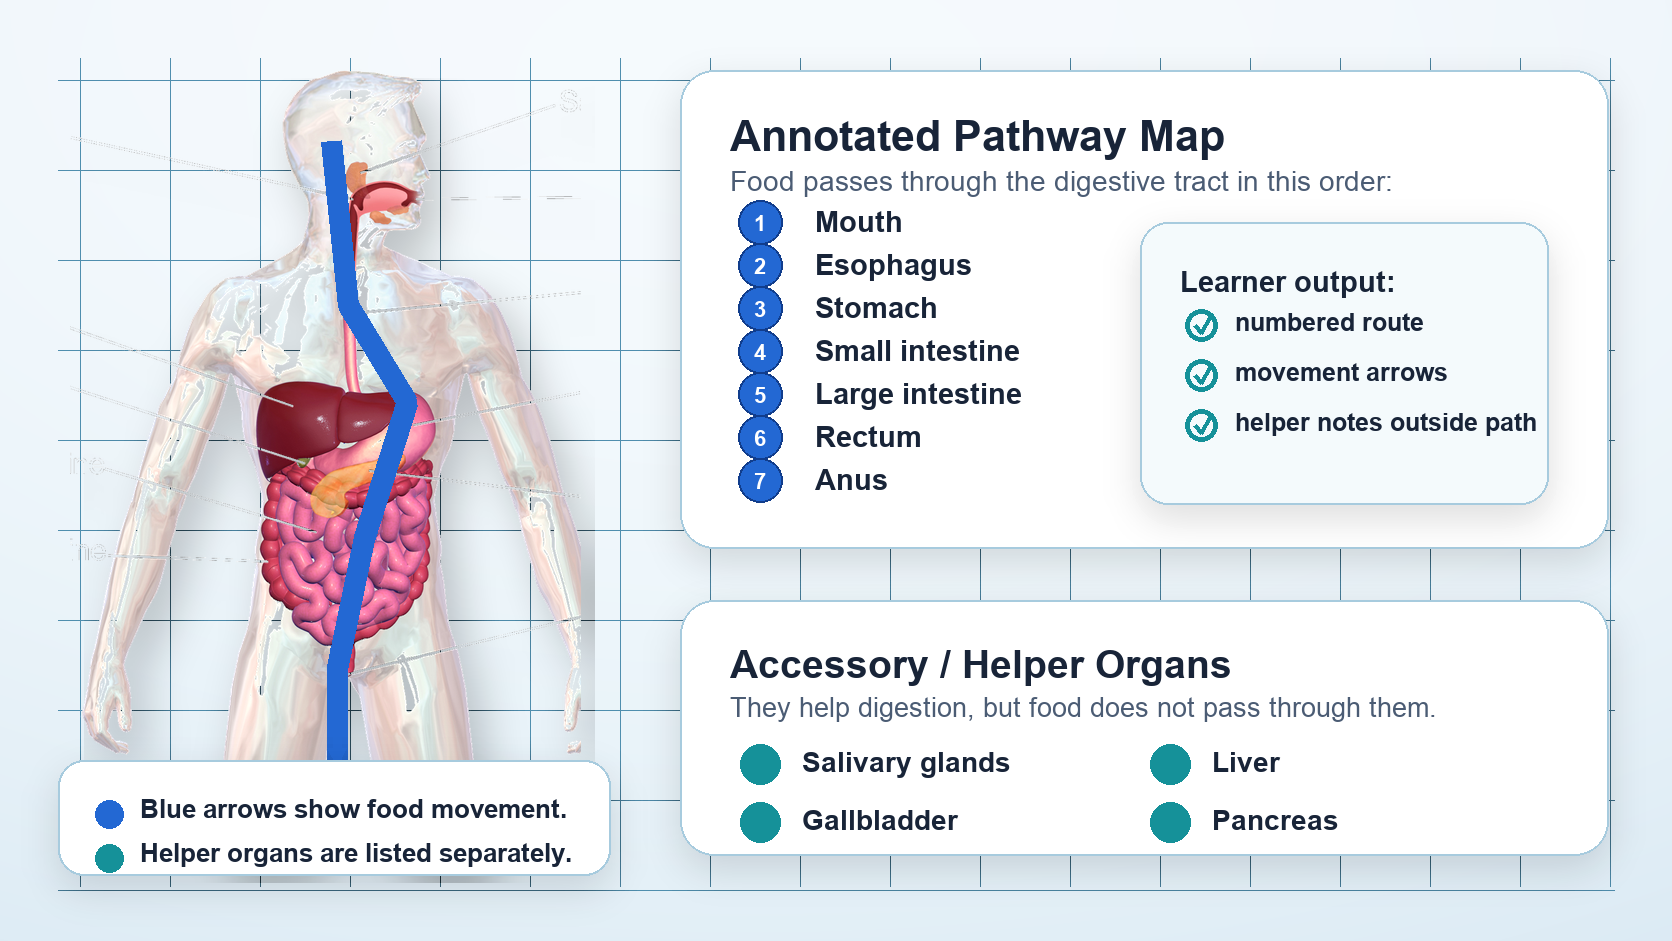
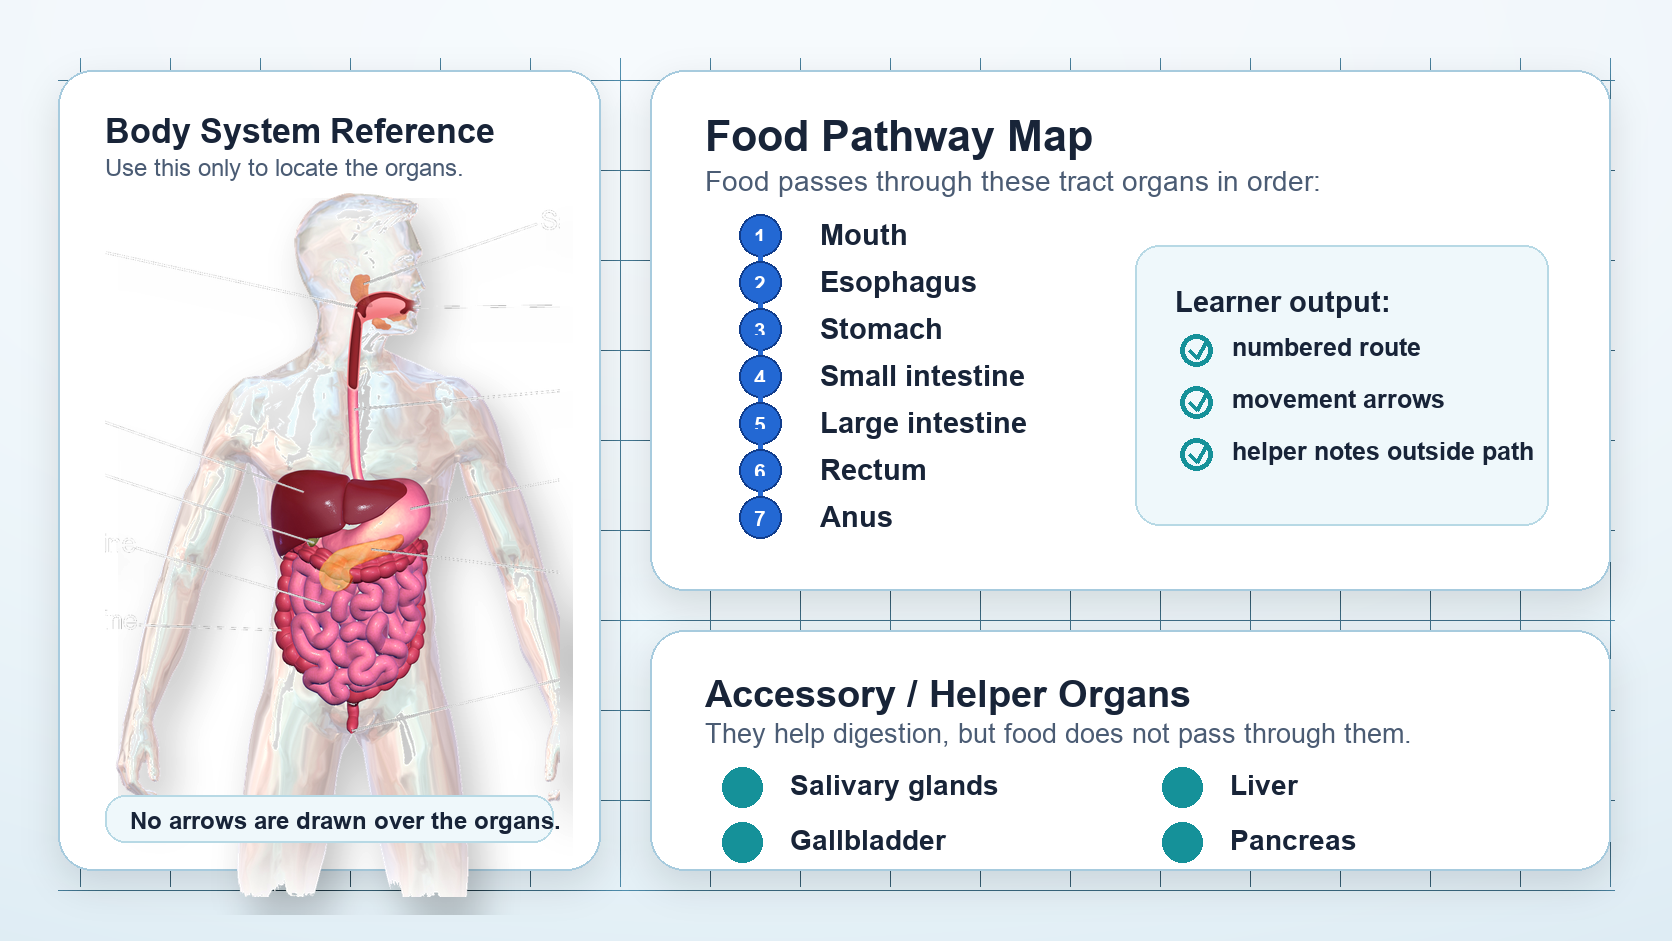
Remove overlapping labels from pathway visual

diff --git a/App.tsx b/App.tsx
@@ -68,14 +68,14 @@ const fetchSessionOnce = (endpoint: string): Promise<SessionCheckResult> => {
 
 const DEFAULT_LESSON_FORMAT = 'K-12';
 const DEFAULT_PLAN_UNIT_LABEL = 'Day';
-const GENERATION_CACHE_VERSION = 'lesson-plan-cache-v28';
-const IMAGE_SEMANTIC_CACHE_VERSION = 'image-semantic-cache-v20';
+const GENERATION_CACHE_VERSION = 'lesson-plan-cache-v29';
+const IMAGE_SEMANTIC_CACHE_VERSION = 'image-semantic-cache-v21';
 const CACHE_HIT_LOADING_DELAY_MS = 1400;
 const REUSABLE_GENERATION_LOADING_DELAY_MS = 2600;
 const ADMIN_IMAGE_BATCH_LIMIT = 12;
 // Keep particle-model visuals generated/cached as HD raster images; the old static set was too generic for classroom science.
 const USE_STATIC_SCIENCE_PARTICLE_MODEL_IMAGES = false;
-const CURATED_STATIC_IMAGE_ASSET_VERSION = '20260530-digestive-clean-pathway-hd1';
+const CURATED_STATIC_IMAGE_ASSET_VERSION = '20260530-digestive-clean-pathway-hd2';
 const CURATED_STATIC_IMAGE_BASE_PATH_BY_COLLECTION: Record<string, string> = {
   'values-education': '/curated-images/values-education',
   'science-particle-model': '/curated-images/science/particle-model',